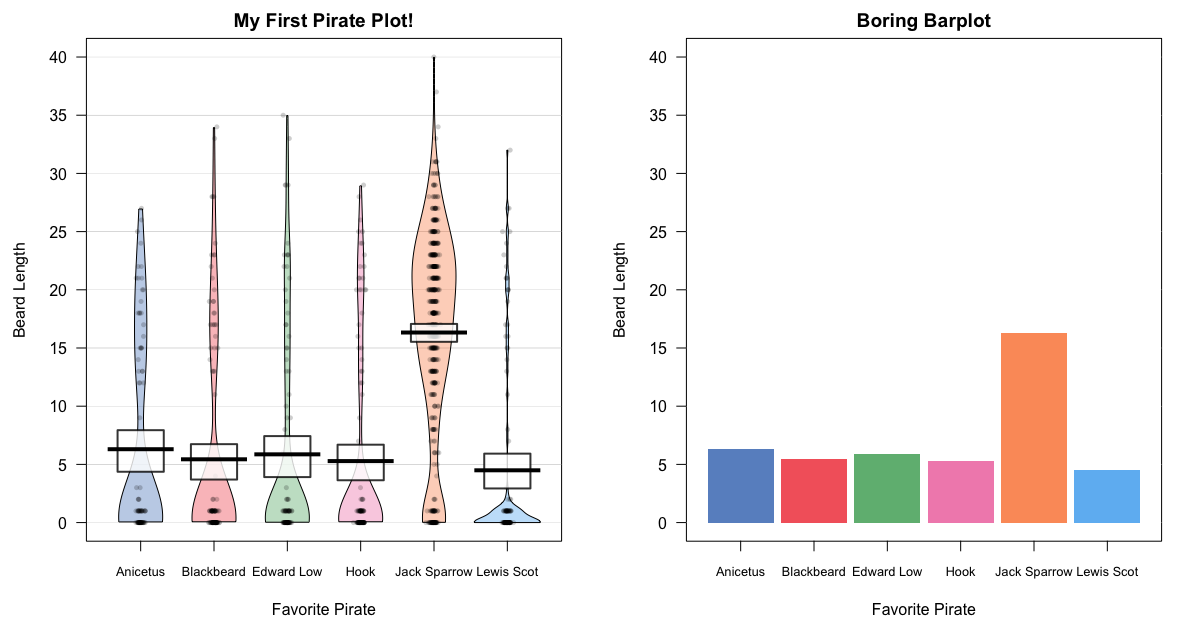
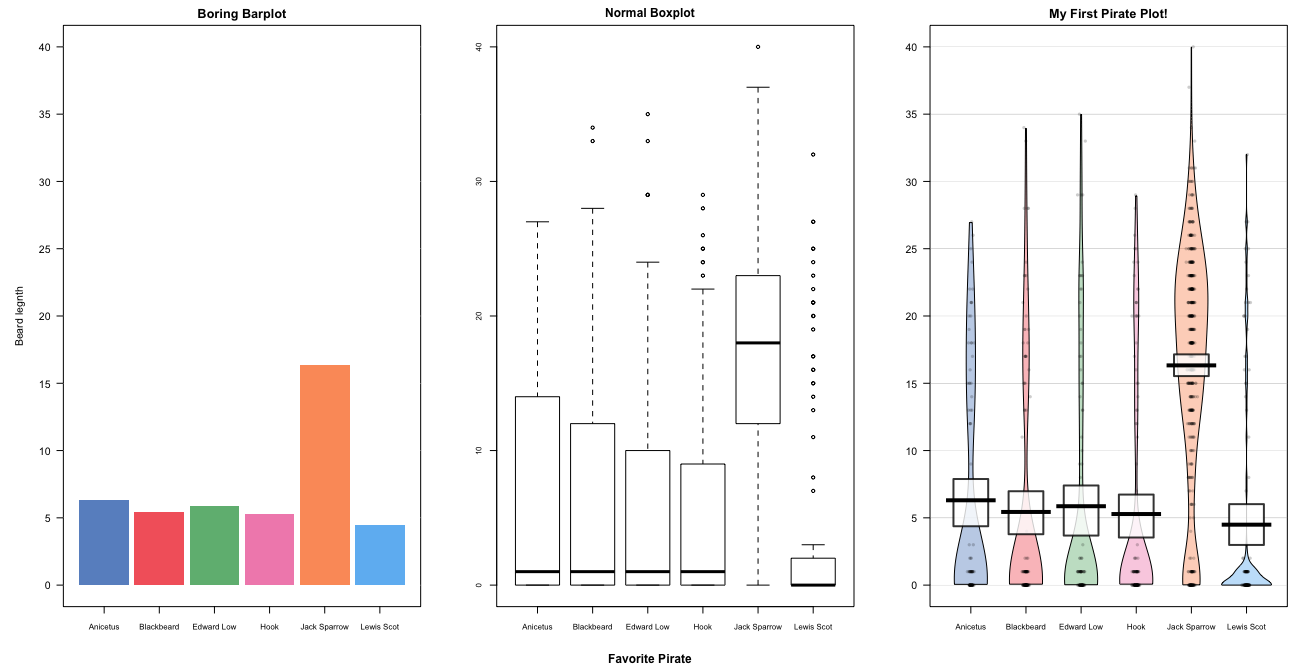
add box plot to pirate post

diff --git a/_posts/2017-07-02-Pirate Plots and Yarrr.md b/_posts/2017-07-02-Pirate Plots and Yarrr.md
@@ -18,7 +18,7 @@ I have been using 'Pirate Plots' in alot of my work lately and have had a few in
 
 > Note: I first heard about Pirate Plots from [Rbloggers](https://www.r-bloggers.com/the-pirate-plot-an-r-pirates-favorite-plot/), who told me, 'Don't use barplots!', and showed me a convincing argument of  [why](https://www.r-bloggers.com/the-pirate-plot-2-0-the-rdi-plotting-choice-of-r-pirates/). I then found [Nathan Philips](https://ndphillips.github.io/) helpful [Pirate's Guide to R](https://ndphillips.github.io/piratesguide.html), which contains a nice section which helps one to get familiar with his package, [yarrr](https://ndphillips.github.io/yarrr.html), now available on [CRAN](https://cran.r-project.org/web/packages/yarrr/index.html), which is the package you need to create his game-changing Pirate Plots.
 
-Pirate plots also now have pre-set [Themes](https://www.r-bloggers.com/the-new-and-improved-pirateplot-now-with-themes/) That offer options with  everything set for you, but this post will cover custom adjustments and extra tweaks to create a publication ready pirate plot, as R-bloggers already covers the themes well.
+Pirate plots also now have pre-set [Themes](https://www.r-bloggers.com/the-new-and-improved-pirateplot-now-with-themes/) That offer options with  everything set for you, but this post will cover custom adjustments and extra tweaks to create a publication-ready pirate plot, as R-bloggers already covers the themes well.
 
 > To The Point: Why a Pirate Plot? Well it doesn't take much convincing when you examine the elements of a pirate plot below:
 
@@ -54,34 +54,46 @@ Below is the complete pirate palette offered. Of course, you can create your own
 </figure>
 
 ## NEXT: 
-Try out a standard pirate plot and compare it to a boring old barplot!
+Try out a standard pirate plot and compare it to a boring old barplot and a standard box and whiskers plot.
 
 {% highlight r %}
-# partition the document into two columns and set margin measurements
-par(mfrow = c(1, 2), mar=c(4,4.5,2,2))
-
-# A Standard Pirate Plot plot with no custom adjustments
-pirateplot(formula = beard.length ~ favorite.pirate,
-           data = pirates,
-           cex.names = .8,
-           xlab = "Favorite Pirate",
-           ylab = "Beard Length",
-           main = "My First Pirate Plot!")
+# partition the figure document into three columns and set margins
+par(mfrow = c(1, 3), mar=c(5,5,2,1))
 
 # Standard Barplot
 pirateplot(beard.length~favorite.pirate,
            data=pirates,
-           cex.names = .8,
+           cex.names = .5,
            main = "Boring Barplot",
+           xlab = " ",
+           ylab = " ",
            theme = 0, # Start from scratch
            bar.f.o = .7) # Just turn on the bars
+
+
+# And I even find pirate plots better than a boxplot because a boxplt can hide whats 
+# happening behind the summarized box and whiskers
+boxplot(beard.length~favorite.pirate,
+        data=pirates, cex.axis=0.75, mtext("Normal Boxplot", xlab="Favorite Pirate", 
+        font=2,side = 3, line = -1.5, cex=.75, outer = TRUE),
+        mtext("Favorite Pirate", 
+            font=2, side = 3, line = -52.5, cex=.75, outer = TRUE),
+                            title(ylab="Beard legnth"))
+
+# A Standard pirate plot with no adjustments shows you exactly whats happening with your data!
+pirateplot(formula = beard.length ~ favorite.pirate,
+           data = pirates,
+           cex.names = .5,
+           xlab = " ",
+           ylab = " ",
+           main = "My First Pirate Plot!")
 
 
 {% endhighlight %}
 
 <figure class="align-center">
   <img src="{{ site.url }}{{ site.baseurl }}/assets/images/posts/pirate_plot_vs_barplot.png" alt="">
-  <figcaption>Shark vs. Bear? Pirate Plot vs. Barplot! Jack Sparrows Beard vs. the world. </figcaption>
+  <figcaption>Shark vs. Bear? Pirate Plot vs. Barplot & Box plot! Jack Sparrows Beard vs. the world. </figcaption>
 </figure>
 
 
@@ -99,7 +111,7 @@ dfnlabels<-data.frame(nlabels)
 View(dfnlabels)
 
 
-# Then we will statistically test between the groups using a pairwise wilcox test
+# Then we will statistically test between the groups using a pairwise wilcox test (cause pirates ain't normal)
 test  <-  pairwise.wilcox.test(pirates$parrots, pirates$favorite.pirate, p.adj="bonferroni", exact=FALSE)
 
 test$p.value
@@ -110,7 +122,7 @@ a.pvals  <-  a.cc[, 3]
 names(a.pvals)  <-  paste(a.cc[, 1], a.cc[, 2], sep="-")
 a.pvals # How's your p-values looking?
 
-# Create letter labels to indicate the difference between groups
+# Create letter labels to indicate the difference between groups with 'MultcompView'
 ml<-multcompLetters(a.pvals,reversed = TRUE)
 
 # ....put those labels into a dataframe
@@ -129,7 +141,7 @@ dflabels<- merge(dfnlabels, dfml, by = c("Var1"))
 So now we have two data frames that we have merged together into two columns of one data frame; one that tells us how many data points comprise each variable, and one that indicates the statistical difference between our groups. We will use these to label our custom plot.
 
 ## AND FINALLY: 
-Create your very own custom pirate plot!
+Create your very own custom-tailored pirate plot!
 
 {% highlight r %}
 # Make your own custom color palette!
@@ -159,8 +171,8 @@ text(x = c(1,2,3,4,5,6), y=8.5 , labels=paste(dflabels$Letters), cex=1.2) #print
                                                                           #staistical differentitation 
                                                                          #between groups
 
-And of course querying 'Pirate Plot' will show you all custom specifications possible!
-??pirate plot # here
+And of course, querying 'Pirate Plot' will show you all custom specifications possible!
+??pirateplot # here
 
 {% endhighlight %}
 
@@ -169,7 +181,9 @@ And of course querying 'Pirate Plot' will show you all custom specifications pos
   <figcaption> Your first custom Pirate Plot! When using pirate plots in my work I use the following legend (to be amended, of course to anything you change in your custom pirate plot): RDI plots (Raw data, Descriptive and Inference statistics) show jittered points of raw data, centre bars indicate the mean of the data, beans outline the smoothed density of the data, whiskers mark the 10% and 90% quartiles of the data, and inference bands show the Bayesian 95% High Density Interval inferential statistics for each group. Numbers at the top of each group indicates the number of data points for each trait, and letters show statistical differences between groups.</figcaption>
 </figure>
 
-I have checked this legend with Nathan Philips and he agreed it was appropriate and descriptive. He asks when using yarrr in published work to always cite it! Pirate plots are now capable of having up to three independent variables displayed in one [plot](https://www.r-bloggers.com/the-yarrr-package-0-0-8-is-finally-on-cran/). For me, the bottom line is: Pirate plots help me and my readers understand the data better!
+I have checked this legend with Nathan Philips and he agreed it was appropriate and descriptive. He asks when using yarrr in published work to always cite it! Pirate plots are now capable of having up to three independent variables displayed in one [plot](https://www.r-bloggers.com/the-yarrr-package-0-0-8-is-finally-on-cran/). 
+
+> For me, the bottom line is: Pirate plots helps me and my readers understand the data better!
 
 I must be an outlier myself, as I am partial to Long John Silver as my favorite pirate, based on the show I've been watching, [Black Sails](https://youtu.be/Pvxpv_fycl8). I welcome any questions or comments you might have. Comment below.
 
